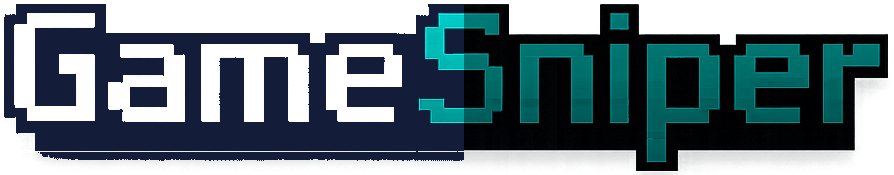
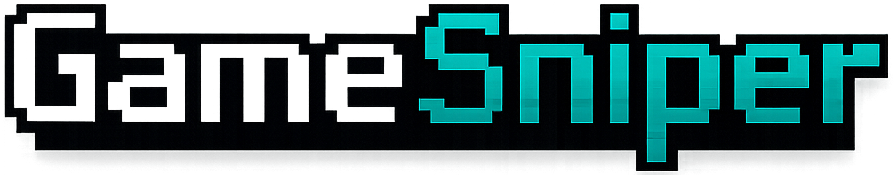
Branding y popup v4.1: letterings por tema, popup rediseñado y versión 4.1.0
- Lettering "GameSniper" por tema: naranja con borde blanco en oscuro, cian en claro (mismo ancho por tema)
- Popup más ancho (430px): frases en un renglón, chips en fila, tiempo fijo a la derecha, sin chip "Ahorro"
- Footer del popup: logo miniatura + nombre + "Compra tus juegos al menor precio"
- Versión 4.1.0 en manifest, badge v4.1 y README

🤖 Generated with Codebuff

diff --git a/popup.css b/popup.css
@@ -39,7 +39,7 @@
 }
 
 body {
-  width: 320px;
+  width: 430px;
   font-family: "Segoe UI", system-ui, -apple-system, Roboto, sans-serif;
   /* separado en background-color (animable en el cambio de tema) + background-image
      (el radial-gradient con var no es transicionable; el color base sí hace fade) */
@@ -77,9 +77,11 @@ html.theme-transition *::after {
   width: 42px; height: 42px;
   object-fit: contain; flex-shrink: 0;
 }
-/* el nombre es la imagen pixelada del logo (fondo transparente) */
+/* el nombre es la imagen del logo (fondo transparente; variante por tema con
+   distinta proporción). El ANCHO es fijo para que el logo oscuro (4.2:1) y el
+   claro (5.1:1) se vean del mismo ancho; el alto escala proporcional. */
 .head .gs-name {
-  height: 24px; width: auto; display: block;
+  width: 123px; height: auto; display: block;
   object-fit: contain; image-rendering: pixelated;
 }
 
@@ -131,12 +133,17 @@ html.theme-transition *::after {
 }
 .q-row { line-height: 1.45; }
 .q-row b { color: var(--hot); }
-.q-chips { display: flex; flex-wrap: wrap; gap: 6px; }
+.q-chips { display: flex; flex-wrap: nowrap; align-items: center; gap: 6px; }
 .q-chip {
   font-size: 11px; padding: 3px 9px; border-radius: 999px;
   background: rgba(56,224,139,0.12); color: var(--ok); border: 1px solid rgba(56,224,139,0.3);
+  white-space: nowrap;
 }
-.q-chip.dim { background: var(--chip-bg); color: var(--muted); border-color: var(--line); }
+/* el timestamp va suelto (sin chip), fijo al borde derecho del panel */
+.q-time {
+  margin-left: auto; font-size: 11px; color: var(--muted);
+  white-space: nowrap; flex-shrink: 0;
+}
 .q-chip.warn { background: rgba(255,154,60,0.12); color: var(--orange); border-color: rgba(255,154,60,0.35); }
 .q-chip.free { background: rgba(196,163,255,0.14); color: #a78bfa; border-color: rgba(196,163,255,0.4); }
 [data-theme="light"] .q-chip.free { color: #7c3aed; border-color: rgba(124,58,237,0.35); }
@@ -171,4 +178,10 @@ html.theme-transition *::after {
 }
 .b-open:hover { background: rgba(255,154,60,.12); }
 
-.foot { text-align: center; color: var(--muted); font-size: 11px; line-height: 1.5; }
+.foot {
+  display: flex; align-items: center; justify-content: center; gap: 7px;
+  color: var(--muted); font-size: 11.5px; line-height: 1.5; white-space: nowrap;
+}
+.foot-logo { width: 16px; height: 16px; object-fit: contain; flex-shrink: 0; }
+.foot-name { font-weight: 800; color: var(--text); }
+.foot-tag { color: var(--muted); }

diff --git a/popup.js b/popup.js
@@ -34,8 +34,10 @@
     // blanco sería invisible sobre fondo claro), anillo blanco en tema oscuro. El
     // nombre pixelado también tiene variante por tema ("Game" blanco/navy).
     const light = t === 'light';
-    const logo = document.querySelector('.head img.logo');
-    if (logo) logo.src = light ? 'icons/gamesniper-light.png' : 'icons/gamesniper.png';
+    // logo del header y del footer (miniatura) comparten el swap por tema
+    document.querySelectorAll('.logo').forEach((logo) => {
+      logo.src = light ? 'icons/gamesniper-light.png' : 'icons/gamesniper.png';
+    });
     const name = document.querySelector('.head img.gs-name');
     if (name) name.src = light ? 'icons/gamesniper-name-light.png' : 'icons/gamesniper-name.png';
   }
@@ -59,10 +61,6 @@
     }
     const bugs = c.games.filter((g) => g.bug).length;
     const total = c.games.length;
-    const ahorro = c.games.reduce((acc, r) => {
-      if (!r.bug || r.msArs == null || r.bestUsdArs == null) return acc;
-      return acc + Math.max(0, r.bestUsdArs - r.msArs);
-    }, 0);
 
     qLast.innerHTML = bugs > 0
       ? `Hay <b>${bugs}</b> juego${bugs === 1 ? '' : 's'} con precio bug en Microsoft Store 🤑`
@@ -79,8 +77,7 @@
       `<span class="q-chip">${total} juegos</span>`,
       `<span class="q-chip warn">${bugs} oportunidades</span>`,
       epicFree > 0 ? `<span class="q-chip free">🎁 Epic regala ${epicFree}</span>` : '',
-      `<span class="q-chip">Ahorro ≈ ${fmtMoney(ahorro)}</span>`,
-      `<span class="q-chip dim">${timeAgo(c.ts)}</span>`,
+      `<span class="q-time">${timeAgo(c.ts)}</span>`,
     ].join('');
 
     // mejor oportunidad del último scan (score más alto)

diff --git a/offers.css b/offers.css
@@ -122,10 +122,11 @@ body {
   display: grid; place-items: center;
 }
 .brand-logo img { width: 100%; height: 100%; object-fit: contain; display: block; }
-/* el nombre es la imagen pixelada del logo (fondo transparente); el alto define
-   el tamaño y el ancho se mantiene proporcional (894:175 ≈ 5.1:1) */
+/* el nombre es la imagen del logo (fondo transparente; variante por tema con
+   distinta proporción). El ANCHO es fijo para que el logo oscuro (4.2:1) y el
+   claro (5.1:1) se vean del mismo ancho; el alto escala proporcional. */
 .brand .gs-name {
-  height: 34px; width: auto; display: block;
+  width: 174px; height: auto; display: block;
   object-fit: contain; image-rendering: pixelated;
 }
 .brand p { color: var(--muted); font-size: 13px; margin-top: 5px; }
@@ -857,7 +858,7 @@ html.theme-transition *::after {
 .foot strong { color: var(--orange); }
 
 @media (max-width: 640px) {
-  .brand .gs-name { height: 26px; }
+  .brand .gs-name { width: 133px; }
   .topbar { justify-content: center; }
 }
 

diff --git a/offers.js b/offers.js
@@ -15,8 +15,8 @@
   // stamp de build: se loguea en cada init para confirmar que el navegador corre
   // el código actualizado (un usuario con build vieja puede ver errores que ya
   // fueron corregidos en disco).
-  const BUILD_STAMP = 'gamesniper-offers-2026-08-08-v4-const-free'; // v4: auditoría completa — cero reasignaciones a const en el path del scan
-  const BUILD_LABEL = 'v4.0'; // etiqueta visible en el header (confirma la build sin consola)
+  const BUILD_STAMP = 'gamesniper-offers-2026-08-08-v4-1-lettering'; // v4.1: branding (letterings por tema) + popup rediseñado
+  const BUILD_LABEL = 'v4.1'; // etiqueta visible en el header (confirma la build sin consola)
 
   // ---------- reporte de errores (diagnóstico) ----------
   // Cualquier error que escape (o que se capture en los catches del scan) queda

diff --git a/popup.html b/popup.html
@@ -32,7 +32,9 @@
     <div class="q-best hidden" id="qBest"></div>
 
     <footer class="foot">
-      Detecta errores de precio, regionalización mal configurada y ofertas ocultas antes de que desaparezcan 🤑
+      <img class="logo foot-logo" src="icons/gamesniper.png" alt="" />
+      <span class="foot-name">GameSniper</span>
+      <span class="foot-tag">Compra tus juegos al menor precio</span>
     </footer>
   </div>
   <script src="shared/util.js"></script>

diff --git a/README.md b/README.md
@@ -1,7 +1,7 @@
 # GameSniper — Cazador de oportunidades de juegos 🎮
 
 <p align="center">
-  <img src="https://img.shields.io/badge/versi%C3%B3n-v4.0-171f36?style=flat-square" alt="versión v4.0" />
+  <img src="https://img.shields.io/badge/versi%C3%B3n-v4.1-171f36?style=flat-square" alt="versión v4.1" />
   <img src="https://img.shields.io/badge/Manifest%20V3-%E2%9C%93-3b82f6?style=flat-square" alt="Manifest V3" />
   <img src="https://img.shields.io/badge/Chrome%20%C2%B7%20Edge%20%C2%B7%20Brave-Listo-0ea5e9?style=flat-square" alt="Navegadores" />
   <img src="https://img.shields.io/badge/Steam%20%C2%B7%20Epic%20%C2%B7%20Microsoft%20Store-3%20tiendas-7c3aed?style=flat-square" alt="Tiendas" />
